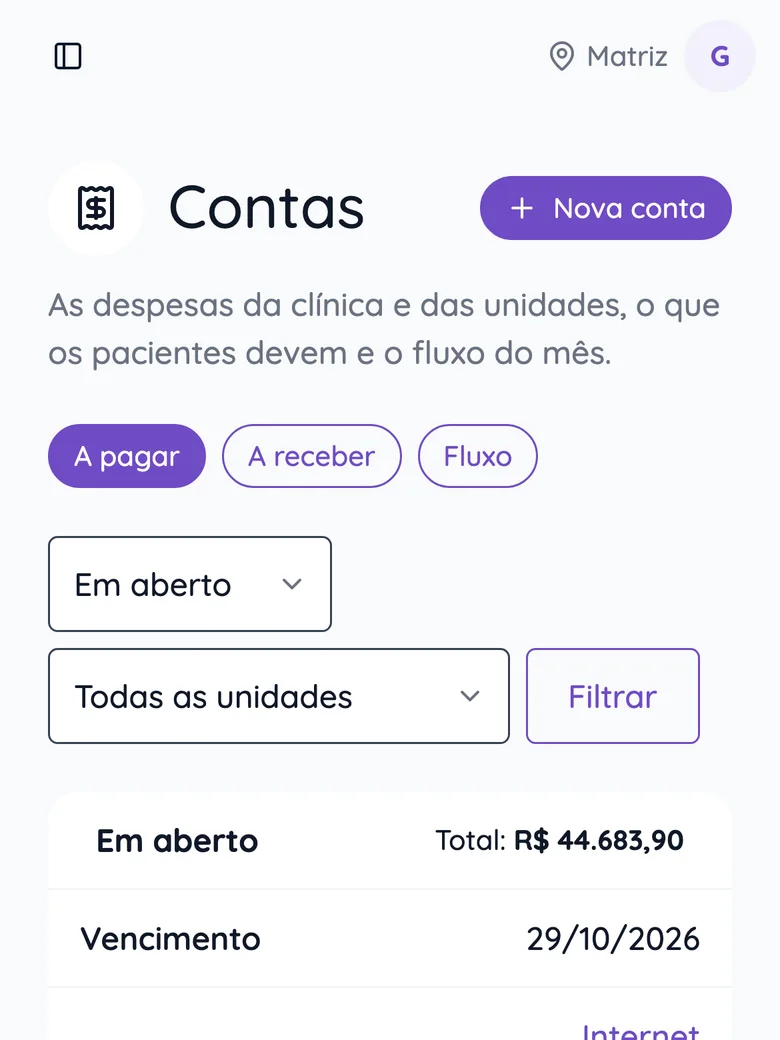
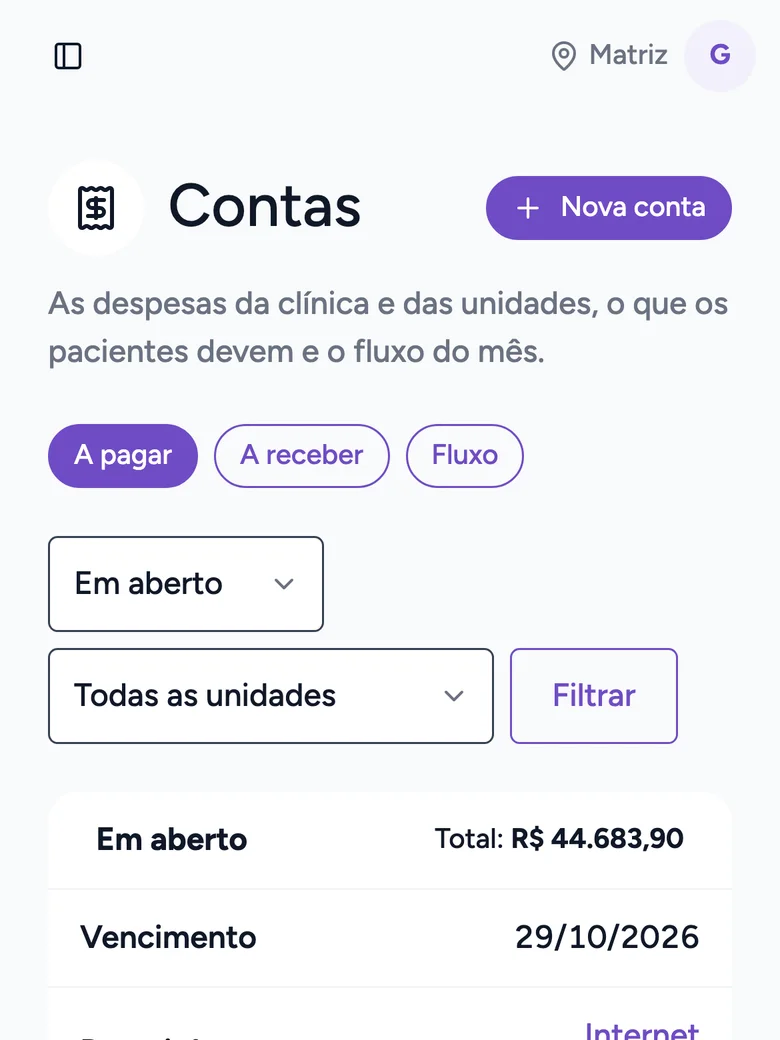
feature(site): troca a fonte pela Figtree do app e refaz as telas do sistema de manhã, com o menu novo (lote 7.2)
O app trocou a Quicksand pela Figtree e redesenhou o menu (a logo com o nome, a clínica num cartão, os ícones do Phosphor e o item ativo em violeta cheio), e o site acompanha a fonte do app. As doze capturas da Clínica Demonstração saem de novo, com o mesmo recorte, de manhã: a capa deixa de dizer "Boa noite", e os atendimentos que já passaram aparecem concluídos.

diff --git a/src/app/layout.tsx b/src/app/layout.tsx
@@ -1,13 +1,13 @@
 import type { Metadata } from 'next';
-import { Quicksand } from 'next/font/google';
+import { Figtree } from 'next/font/google';
 import type { ReactNode } from 'react';
 
 import { cn } from '@/lib/utils';
 
 import './globals.css';
 
-// A Quicksand do app: geométrica e arredondada, com o texto corrido no 500 (globals.css).
-const quicksand = Quicksand({ subsets: ['latin'], variable: '--font-sans' });
+// A Figtree do app (desde 04/11, no lugar da Quicksand), com o texto corrido no 500 (globals.css).
+const figtree = Figtree({ subsets: ['latin'], variable: '--font-sans' });
 
 export const metadata: Metadata = {
   metadataBase: new URL('https://biostar4life.com.br'),
@@ -22,7 +22,7 @@ interface RootLayoutProps {
 
 export default function RootLayout({ children }: RootLayoutProps) {
   return (
-    <html lang="pt-BR" className={cn('font-sans', quicksand.variable)}>
+    <html lang="pt-BR" className={cn('font-sans', figtree.variable)}>
       <body>{children}</body>
     </html>
   );

diff --git a/src/app/globals.css b/src/app/globals.css
@@ -178,7 +178,8 @@
   body {
     @apply bg-background text-foreground;
   }
-  /* O texto corrido no 500: o 400 da Quicksand é leve demais no texto pequeno e no cinza. */
+  /* O texto corrido no 500, como no app: desde a Quicksand, cujo 400 era leve demais, e mantido com a
+     Figtree (04/11), que segura o cinza do texto pequeno. */
   html {
     @apply font-sans font-medium;
   }
